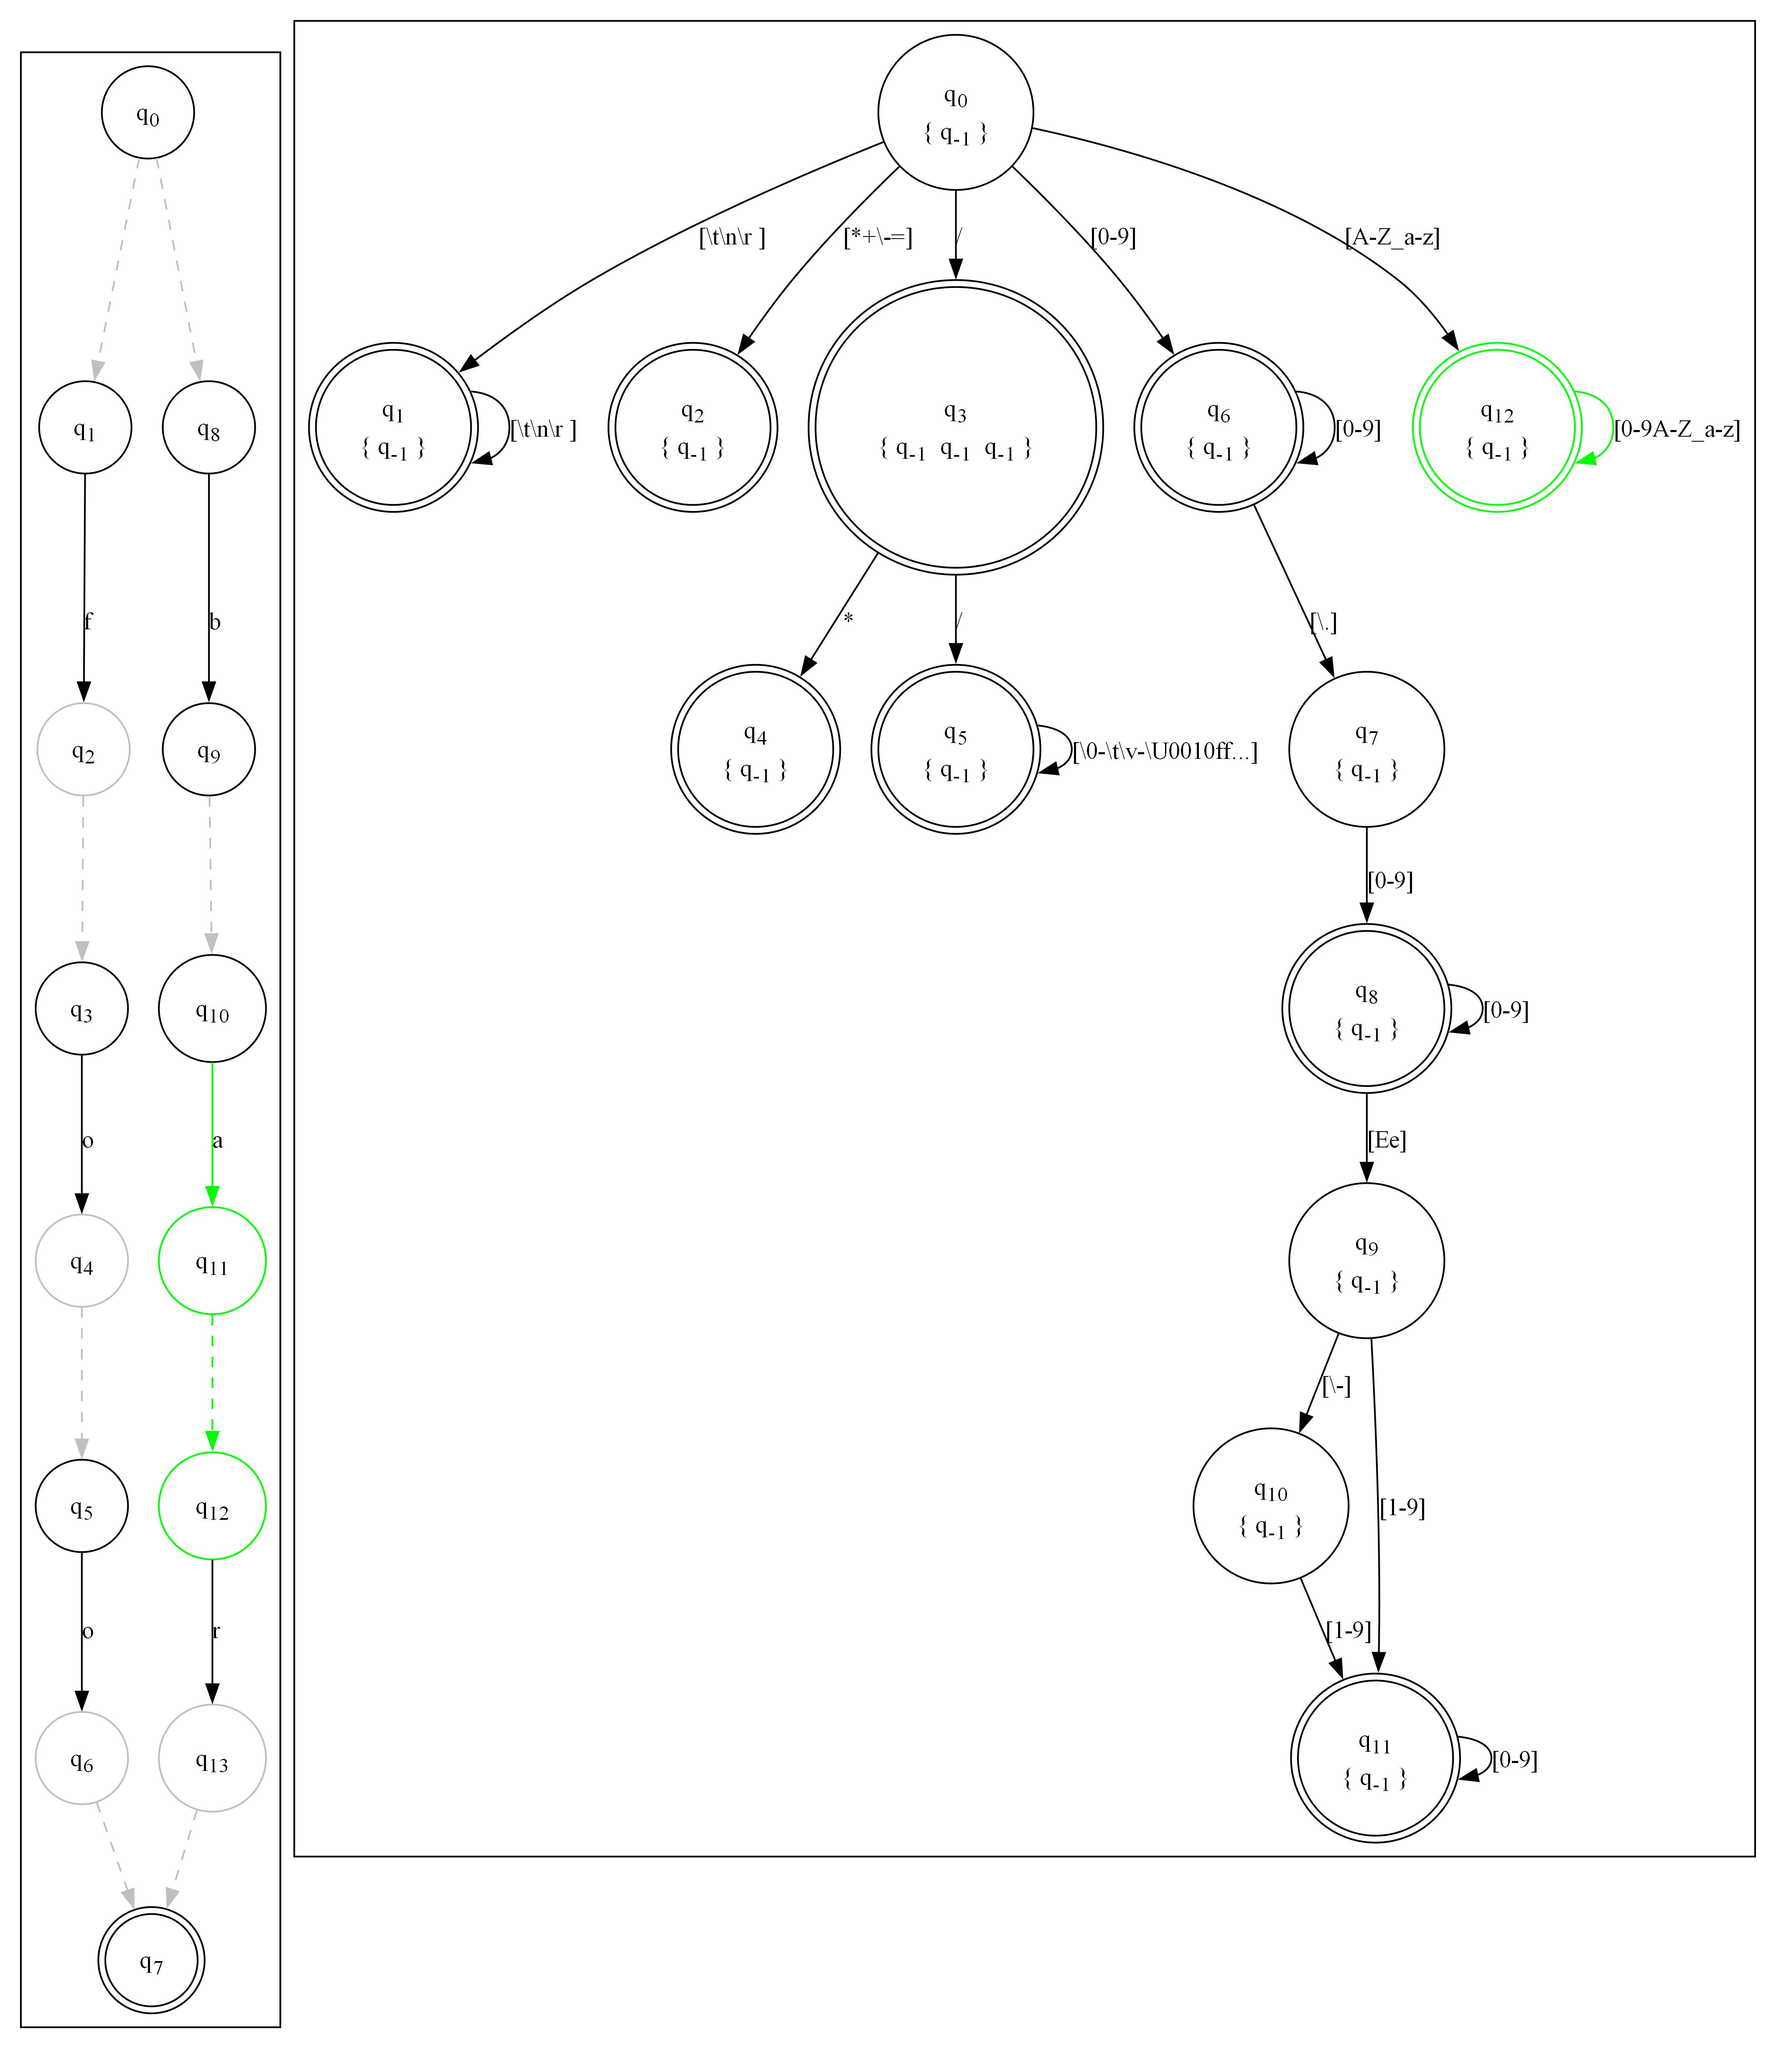
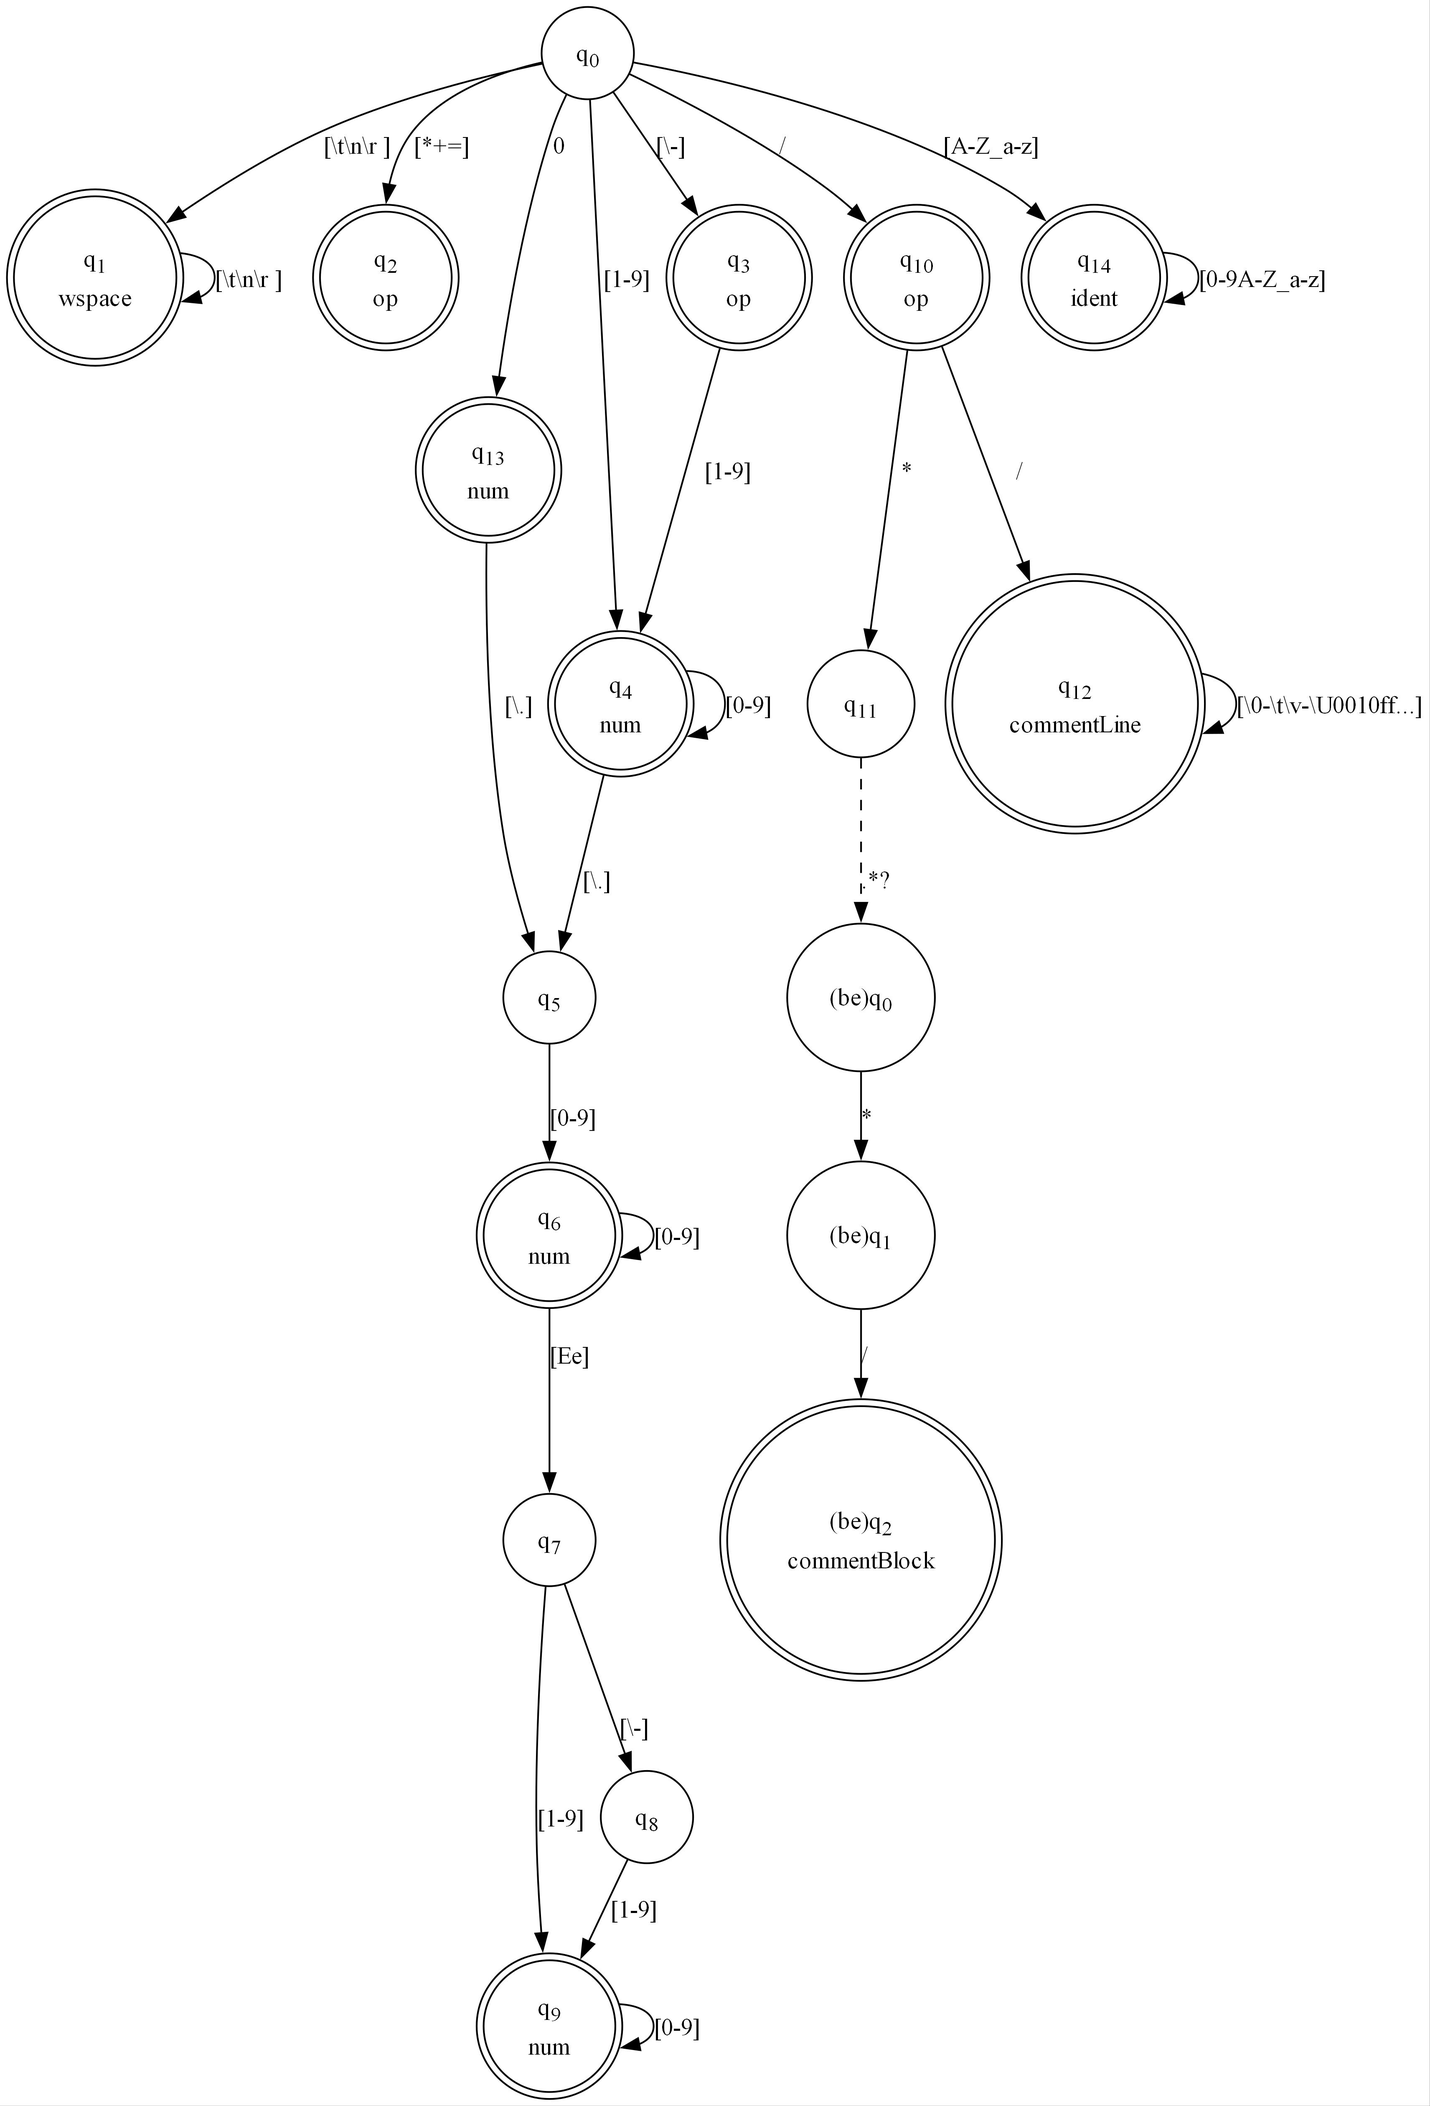
simplestuff improvement

diff --git a/SimpleStuff/Program.cs b/SimpleStuff/Program.cs
@@ -12,7 +12,7 @@ FA commentBlockEnd = FA.Parse(@"\*\/");
 FA commentLine = FA.Parse(@"\/\/[^\n]*", 1);
 FA wspace = FA.Parse("[ \\t\\r\\n]+", 2);
 FA ident = FA.Parse("[A-Za-z_][A-Za-z0-9_]*", 3);
-FA num= FA.Parse(@"[0-9]+((\.[0-9]+[Ee]\-?[1-9][0-9]*)?|\.[0-9]+)", 4);
+FA num= FA.Parse(@"(0|-?([1-9][0-9]*))((\.[0-9]+[Ee]\-?[1-9][0-9]*)?|\.[0-9]+)", 4);
 FA op = FA.Parse(@"[\-\+\*\/\=]",5);
 FA[] tokens = new FA[] { 
 	commentBlock, 
@@ -86,7 +86,12 @@ dgo.AcceptSymbolNames = null;
 dgo.DebugString = "ba";
 // finally, render it.
 dfa.RenderToFile(@"..\..\..\dfa_subset.jpg", dgo);
-
+dgo.BlockEnds = blockEnds;
+dgo.DebugString = null;
+dgo.DebugSourceNfa = null;
+dgo.DebugShowNfa = false;
+dgo.AcceptSymbolNames = syms;
+dgo.HideAcceptSymbolIds = false;
 lexer.RenderToFile(@"..\..\..\lexer_dfa.jpg", dgo);
 
 
